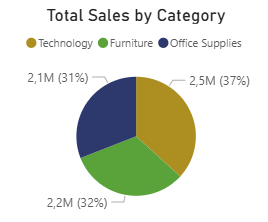
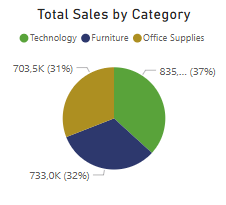
Dataset without duplicates
Last push had de data triplicated within mysql to power BI

I Loaded the dataset again to power BI and updated the report in .md + the Graphs take from power BI

diff --git a/Superstore_Data_Analysis/Superstore Dataset Report Analisis.md b/Superstore_Data_Analysis/Superstore Dataset Report Analisis.md
@@ -4,7 +4,7 @@
 This analysis explores sales, profitability, and operational trends within the Superstore dataset using Power BI. It focuses on identifying high-performing product categories and customer segments, uncovering underperforming regions and SKUs, and evaluating the impact of discounts and shipping methods on profit margins. Key visualizations and metrics guide strategic recommendations for improving profitability, optimizing product bundling, and refining discount strategies. The report is designed to support data-driven decision-making and performance optimization for retail operations.
 
 ## Dataset Description
-The Superstore dataset contains approximately 30,000 records of orders from a fictional retail company over a 4-year period (2014–2017). The dataset includes the following key fields:
+The Superstore dataset contains approximately 10,000 records of orders from a fictional retail company over a 4-year period (2014–2017). The dataset includes the following key fields:
 
 - Order and ship dates
 
@@ -38,23 +38,23 @@ This dataset is widely used for sales analytics and dashboarding practice, offer
     - Profit: +24%
       
   ![ProfitAndSalesCAGR](Graphs/ProfitAndSalesCAGR.png)
-- Total Sales: $6.82M
-    - Technology: $2.5M (37%)
-    - Office Supplies: $2.1M (31%)
-    - Furniture: $2.2M (32%)
+- Total Sales: $2.27M
+    - Technology: $835K (37%)
+    - Office Supplies: $703K (31%)
+    - Furniture: $733M (32%)
      
      ![Total Sales by Category](Graphs/TotalSalesCategory.png)
-- Total Profit: $849K
-    - Technology: $436K (51%)
-    - Office Supplies: $361K (43%)
-    - Furniture: $51K (6%)
+- Total Profit: $283K
+    - Technology: $145K (51%)
+    - Office Supplies: $120K (43%)
+    - Furniture: $17K (6%)
   
   ![Total Profit Category](Graphs/TotalSProfitCategory.png)
-- Top Performing States: California & New York (~40% of total profit)
+- Top Performing States: California & New York (~50% of total profit)
  
   ![Profitable States](<Graphs/Profitable States.png>)
 - Under-performing Regions: Central & South
-- 18.7% of sales were unprofitable, totaling a loss of $463.5K
+- 18.65% of all the sales were unprofitable, totaling a loss of $154K
  
   ![Under-Performing Regions](<Graphs/Under-Performing Regions.png>)
 
@@ -65,17 +65,17 @@ This dataset is widely used for sales analytics and dashboarding practice, offer
 
 🟢 High Profitability Subcategories:
 
-- Copiers: 20% of the total profit comes from only 1% of orders
-- Phones, Accessories, and Paper collectively drive 60% of total profit
-- Labels, Paper & Envelopes show excellent margins despite lower overall profit
+- Copiers: 20% of the total profit comes from less 1% of the orders
+- Phones, Accessories, and Paper collectively drive 40% of the total profit
+- Labels & Envelopes show excellent margins despite lower overall profit
 
   ![High Profitable Subcategories](<Graphs/High Profitable Subcategories.png>)
 
 🔴 Under-performing Subcategories:
 
-- Furniture generates 32% of sales but only 6% of profit
+- The Furniture Category generates 21% of sales but only 6% of profit
 - Tables, Bookcases, Machines, and Supplies often result in negative profit
-- Nearly 50% of total losses stem from Binders, Tables, and Machines
+- Nearly 65% of total losses stem from Binders, Tables, and Machines
   
   ![Less Profitable Subcategories](<Graphs/Less Profitable Subcategories.png>)
 
@@ -108,9 +108,9 @@ This dataset is widely used for sales analytics and dashboarding practice, offer
 ## 4. Segment & Customer Performance
 
 - Segment Share of Sales:
-    - Consumer: 3.5M (50%)
-    - Corporate: 2.1M (30%)
-    - Home Office: 1.3M (19%)
+    - Consumer: 1.15M (50%)
+    - Corporate: 700K (30%)
+    - Home Office: 430K (19%)
 - 20% of customers are unprofitable
 - Several high-revenue customers yield little or negative profit
   
@@ -126,40 +126,40 @@ This dataset is widely used for sales analytics and dashboarding practice, offer
 
 ### States with the Poorest Profit Margins:
 
-🔻 North Carolina (6th in sales overall, yet major margin issues):
+🔻 Texas: -15% Profit Margin 
 
-- Machines: −32%
-- Binders: −17%
-- Tables: −6%
+- Binders:    −162%   
+- Appliances: −255%   
+- Furnishing: -88%    
 
-🔻 Arkansas
+🔻 Ohio -22% Profit Margin 
 
-- Binders: −63%
-- Tables: −18%
+- Machines:   −131%    
+- Binders:    −73%    
+- Bookcases:  −65%    
 
-🔻 Oregon
 
-- Binders: −155%
-- Machines: −109%
+🔻 Pensylvania -13% Profit Margin 
 
-🔻 Florida
+- Machines:   −104%  
+- Binders:    −73%   
+- Bookcases:  −55%   
 
-- Binders: −17%
-- Tables: −19%
-- Supplies: −14%
 
-🔻 Connecticut
+🔻 Illinois -15% Profit margin 
 
-- Binders: −92%
-- Tables: −56%
-- Bookcases: −9%
-- These margin losses are primarily driven by Binders, Tables, and Machines
+- Appliances: −254%  
+- Binders:    −158%  
+- Furnishing: -90%   
+
+
+These states have the lowest profit margins, and due to their relatively high sales volumes, they result in significant overall profit losses.
  
   ![Lowest Profit States](<Graphs/Lowest Profit States.png>)
 
 ### States Strong Margin but Low Sales:
 
-- Nevada, Maryland, District of Columbia, South Dakota
+- District of Columbia, Maine, South Dakota
 - Despite strong profit margins, total profit remains low due to limited sales volume
   
   ![GoodMarginBadTotalProfit](Graphs/GoodMarginBadTotalProfit.png)
@@ -183,7 +183,7 @@ This dataset is widely used for sales analytics and dashboarding practice, offer
   ![Sales Quantity by Discount](<Graphs/Sales Quantity by Discount.png>)
 - The largest profit declines from discounting come from Tables, Bookcases, Machines, and especially Binders
   
-- Sales spike from August to December over 2014 and 2017
+- Sales consistently show a significant upward trend from August to December in both 2014 and 2017, indicating a strong seasonal pattern likely driven by end-of-year demand, holidays, and promotional periods.
   ![Sales Quantity trend](<Graphs/Sales Quantity trend.png>)
 
 ### 💡 Recommendations:
